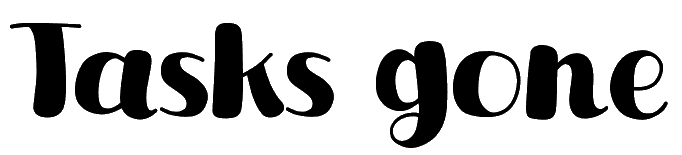
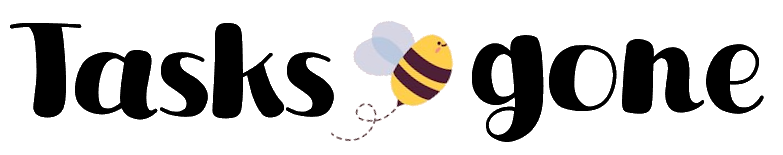
bugfix + bug add

diff --git a/Other/React/task-app-mobile/components/Input.js b/Other/React/task-app-mobile/components/Input.js
@@ -1,36 +1,24 @@
+// Input.js
 import React, { useState } from 'react';
 import { View, TextInput, TouchableOpacity, Image, Text } from 'react-native';
 import DateTimePicker from '@react-native-community/datetimepicker';
+
 import styles from '../styles';
 
-const Input = ({ taskText, setTaskText, addTask, togglePrio, taskPrio }) => {
-  const [showDatePicker, setShowDatePicker] = useState(false);
-  const [showTimePicker, setShowTimePicker] = useState(false);
-  const [taskDate, setTaskDate] = useState('');
-  const [taskTime, setTaskTime] = useState('');
-
-  const handleDatePicked = (event, selectedDate) => {
-    if (event.type === 'set') {
-      setShowDatePicker(false);
-      if (selectedDate) {
-        setTaskDate(selectedDate);
-        setShowTimePicker(true);
-      }
-    } else {
-      setShowDatePicker(false);
-    }
-  };
-
-  const handleTimePicked = (event, selectedTime) => {
-    if (event.type === 'set') {
-      setShowTimePicker(false);
-      if (selectedTime) {
-        setTaskTime(selectedTime);
-      }
-    } else {
-      setShowTimePicker(false);
-    }
-  };
+const Input = ({
+  taskText,
+  setTaskText,
+  addTask,
+  togglePrio,
+  taskPrio,
+  taskDate,
+  taskTime,
+  showDatePicker,
+  showTimePicker,
+  setShowDatePicker,
+  handleDatePicked,
+  handleTimePicked
+}) => {
 
   return (
     <View style={styles.inputContainer}>
@@ -50,8 +38,8 @@ const Input = ({ taskText, setTaskText, addTask, togglePrio, taskPrio }) => {
               taskDate && !taskTime
                 ? require('../assets/dateSet.png')
                 : taskDate && taskTime
-                ? require('../assets/dateTimeSet.png')
-                : require('../assets/dateTime.png')
+                  ? require('../assets/dateTimeSet.png')
+                  : require('../assets/dateTime.png')
             }
             style={styles.dateTimeImage}
           />

diff --git a/Other/React/task-app-mobile/App.js b/Other/React/task-app-mobile/App.js
@@ -74,6 +74,8 @@ export default function App() {
   const [taskPrio, setTaskPrio] = useState(false);
   const [isMenuVisible, setIsMenuVisible] = useState(false);
   const [heightStatus, setHeightStatus] = useState('small');
+  const [showDatePicker, setShowDatePicker] = useState(false);
+  const [showTimePicker, setShowTimePicker] = useState(false);
 
   // Modal-menu
 
@@ -245,6 +247,29 @@ export default function App() {
     setShowDatePicker(true);
   };
 
+  const handleDatePicked = (event, selectedDate) => {
+    if (event.type === 'set') {
+      setShowDatePicker(false);
+      if (selectedDate) {
+        setTaskDate(selectedDate);
+        setShowTimePicker(true);
+      }
+    } else {
+      setShowDatePicker(false);
+    }
+  };
+
+  const handleTimePicked = (event, selectedTime) => {
+    if (event.type === 'set') {
+      setShowTimePicker(false);
+      if (selectedTime) {
+        setTaskTime(selectedTime);
+      }
+    } else {
+      setShowTimePicker(false);
+    }
+  };
+
   // Force update Flatlist
 
   const sortedTasks = useMemo(() => sortTasks(tasks), [tasks]);
@@ -275,6 +300,13 @@ export default function App() {
         addTask={addTask}
         togglePrio={togglePrio}
         taskPrio={taskPrio}
+        taskDate={taskDate}
+        taskTime={taskTime}
+        showDatePicker={showDatePicker}
+        showTimePicker={showTimePicker}
+        setShowDatePicker={setShowDatePicker}
+        handleDatePicked={handleDatePicked}
+        handleTimePicked={handleTimePicked}
       />
 
       {/* Takenlijst --------------------------------------------------------------- */}

diff --git a/Other/React/task-app-mobile/styles.js b/Other/React/task-app-mobile/styles.js
@@ -16,17 +16,22 @@ const styles = StyleSheet.create({
   // Header ------------------------------------------------------------------------------
 
   headerContainer: {
+    display: 'flex',
+    flexDirection: 'row',
+    justifyContent: 'space-between',
+    alignItems: 'center',
     backgroundColor: '#4CAF50',
     width: '100%',
-    paddingVertical: 15,
-    paddingHorizontal: 40,
+    paddingVertical: 10,
+    paddingRight: 20,
+    paddingLeft: 10,
   },
   titleApp: {
-    fontSize: 40,
-    fontWeight: 'bold',
-    color: '#fff',
-    textTransform: 'uppercase',
-    textAlign: 'center',
+    height: 50,
+    width: 240,
+    resizeMode: 'center',
+  },
+  modalOpenButton: {
   },
 
   // Input -------------------------------------------------------------------------------
@@ -171,12 +176,6 @@ const styles = StyleSheet.create({
 
   // Menu and menuoptions -----------------------------------------------------------------------
 
-  modalOpenButton: {
-    position: 'absolute',
-    top: 20,
-    right: 20,
-    margin: 7,
-  },
   modalContainer: {
     flex: 1,
     justifyContent: 'center',

diff --git a/Other/React/task-app-mobile/components/Header.js b/Other/React/task-app-mobile/components/Header.js
@@ -1,16 +1,16 @@
 // Header.js
 import React from 'react';
-import { View, Text, TouchableOpacity } from 'react-native';
+import { View, Text, TouchableOpacity, Image } from 'react-native';
 import { FontAwesome } from '@expo/vector-icons';
 import styles from '../styles.js';
 
 const Header = ({ openMenu }) => {
   return (
     <View style={styles.headerContainer}>
+      <Image style={styles.titleApp} source={require('../assets/tasks.png')}/>
       <TouchableOpacity onPress={openMenu} style={styles.modalOpenButton}>
         <FontAwesome name="bars" size={38} color="white" />
       </TouchableOpacity>
-      <Text style={styles.titleApp}>Taken</Text>
     </View>
   );
 };
